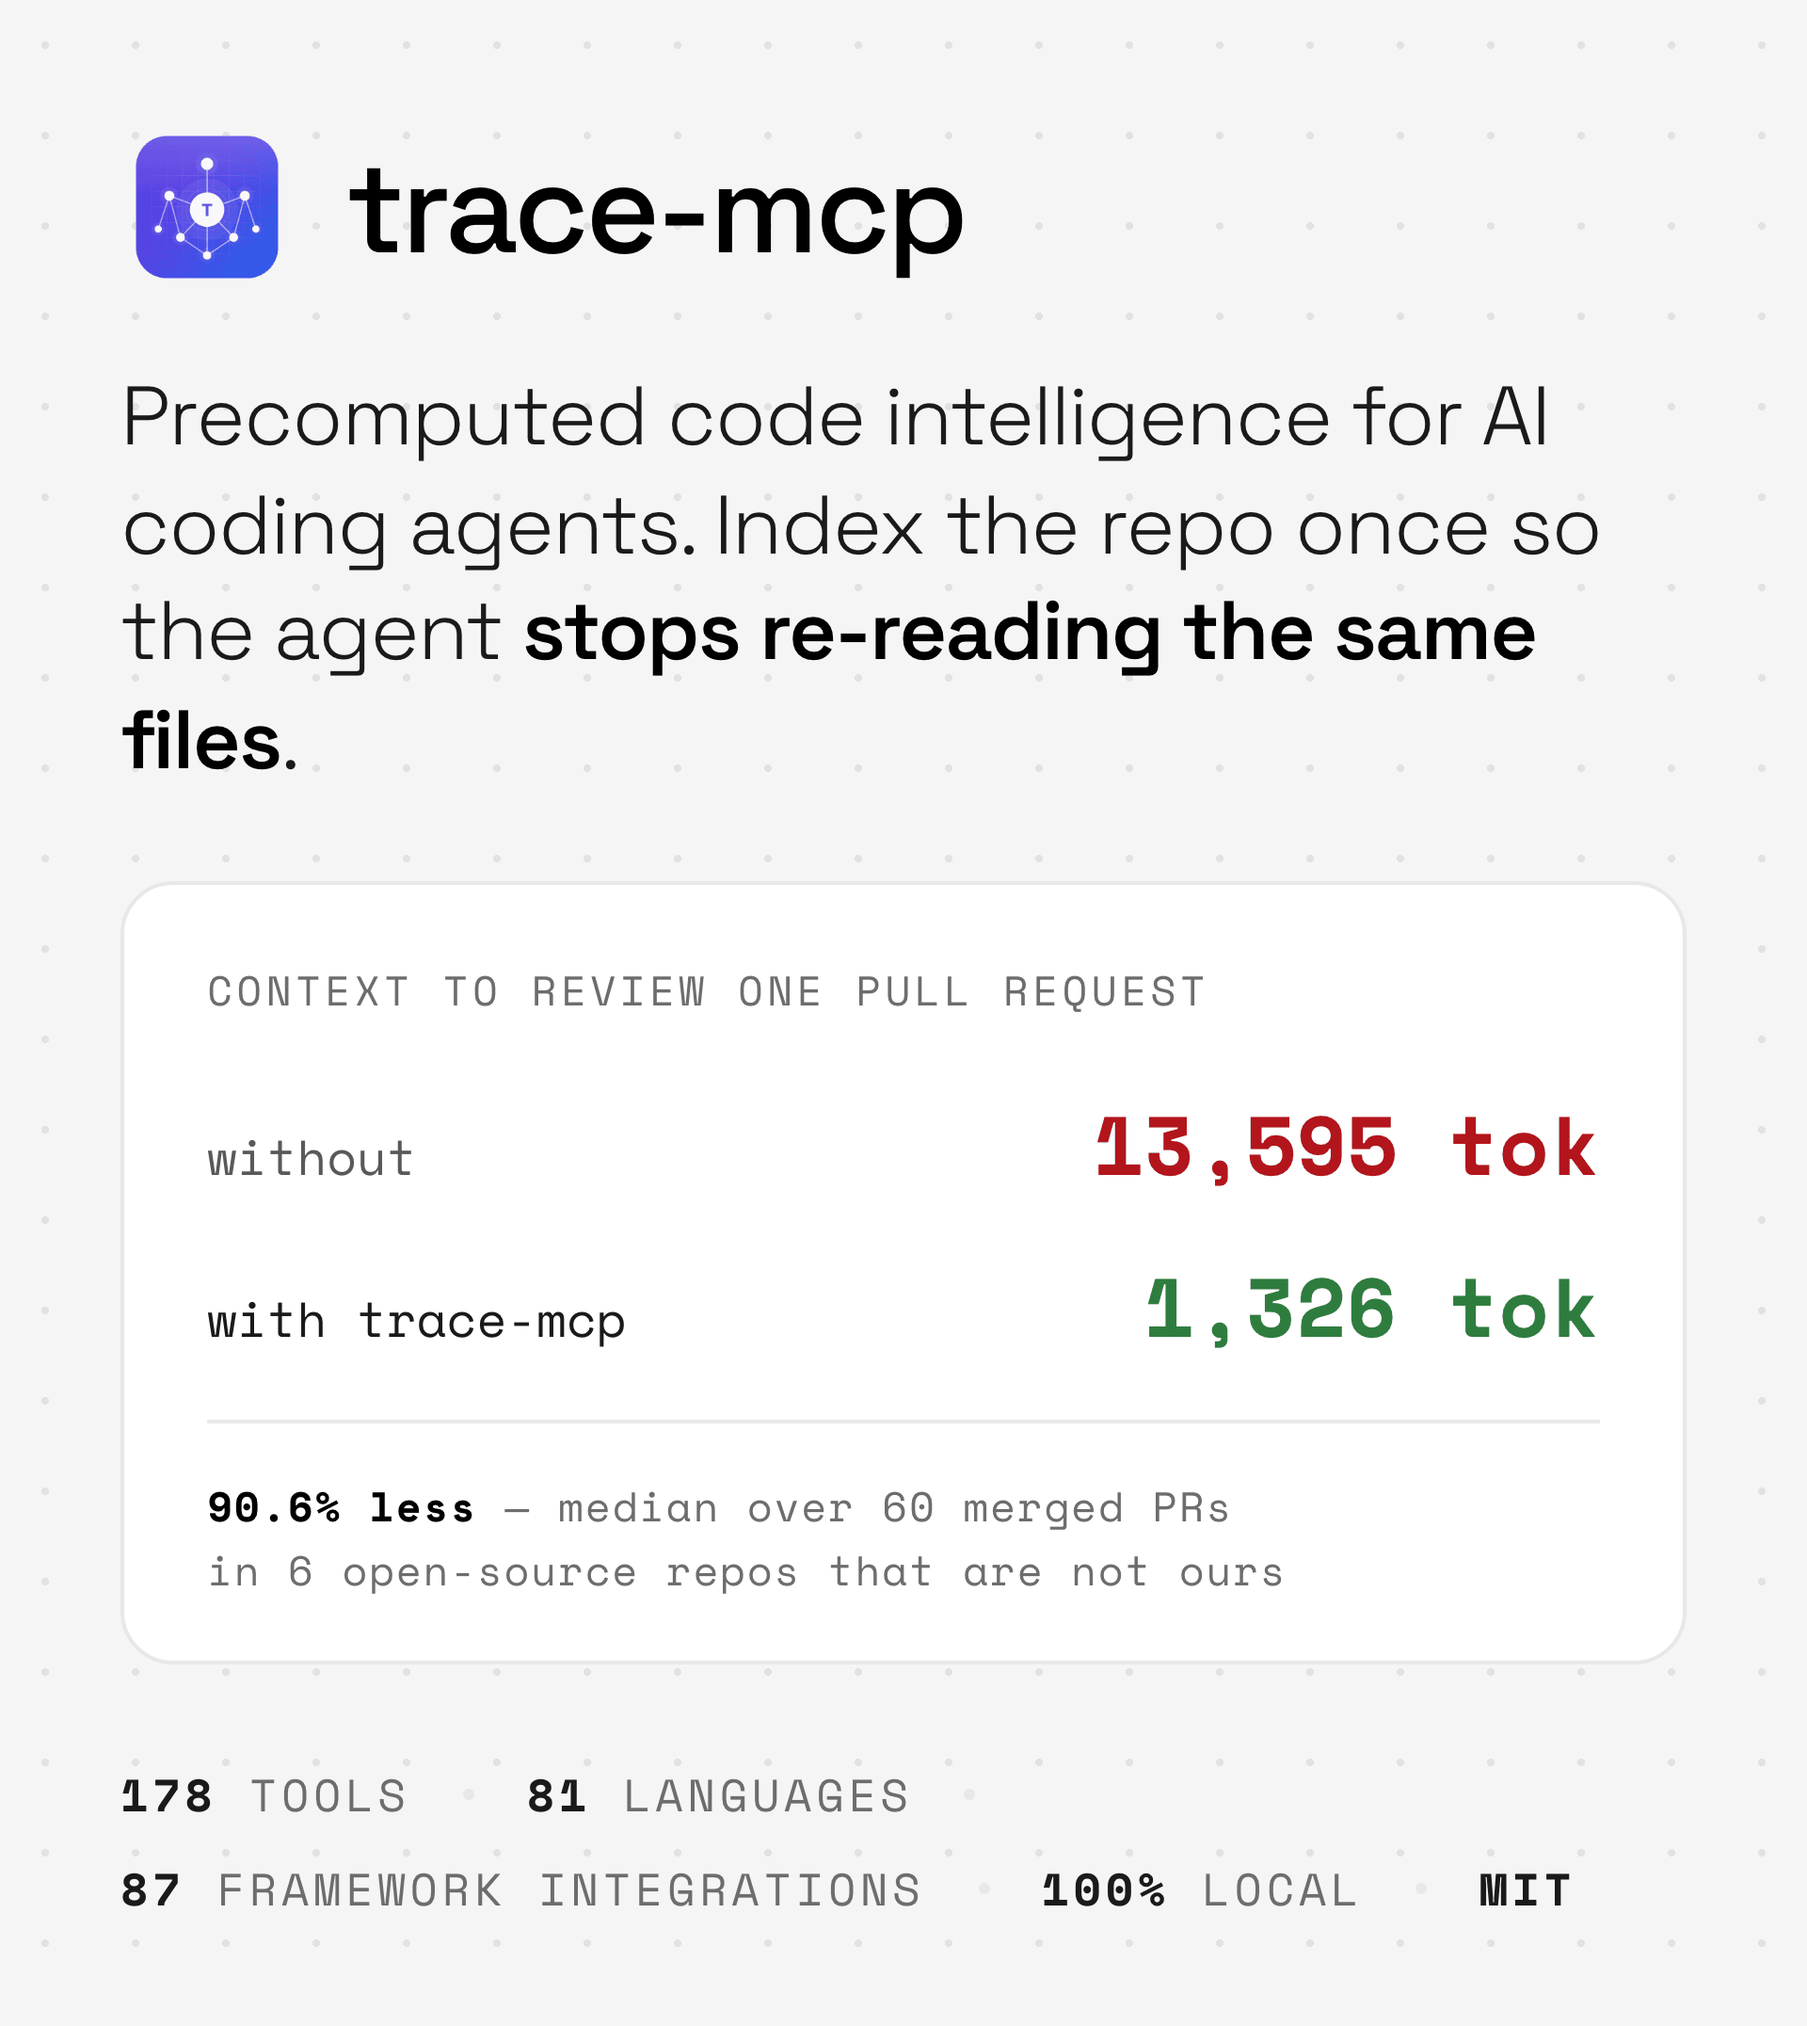
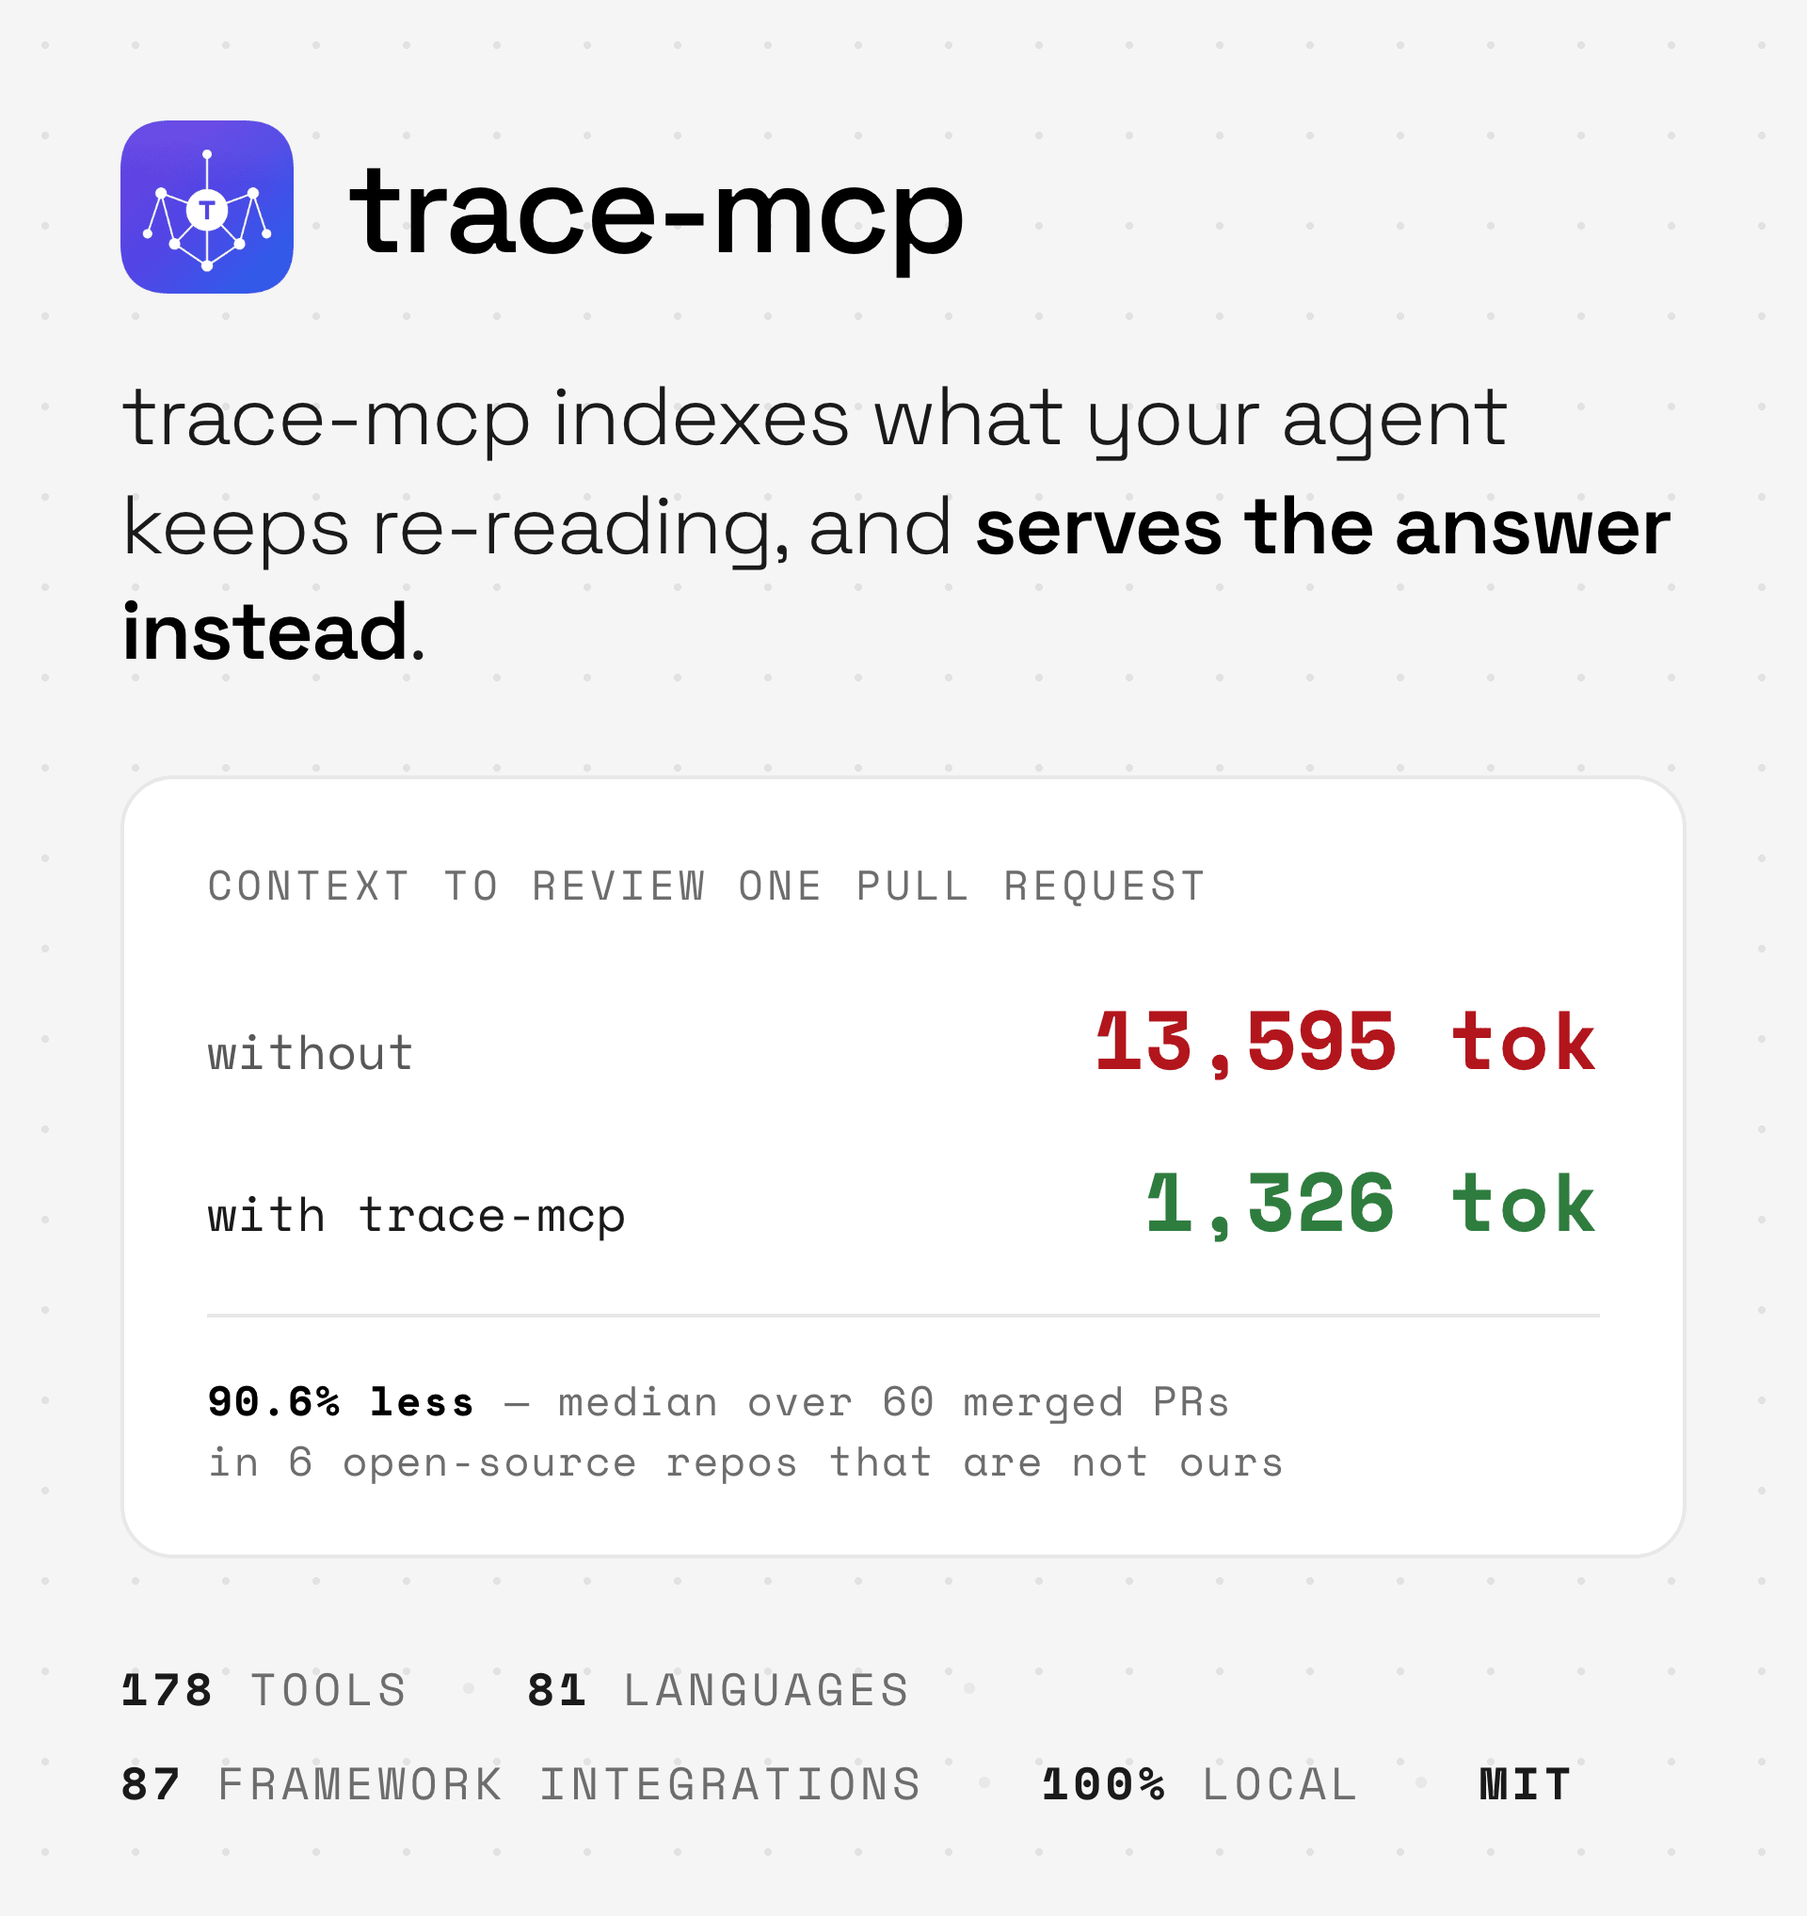
docs: lead with the claim, not the mechanism (TRA-918) (#983)
`ops/positioning.md` (TRA-906) decided the sentence trace-mcp leads with.
This is the copy change it obliges, on the three surfaces a reader actually
sees, all carrying the sentence verbatim — two paraphrases of one claim read
as two claims to anything extracting them:

- `docs/index.html` hero headline, replacing "Precomputed code intelligence
  for AI coding agents". The 90.6% PR-review number moves down one line and
  stays as the headline evidence, now with its own denominator.
- `README.md` first screen, plus the banner PNGs — the tagline lives in
  `scripts/gen-readme-banner.mjs`, so the images are regenerated, never
  retouched. That regeneration also picked up the tool count from
  counts.yml (177 -> 178), so the three prose copies in README follow.
- `docs/_config.yml` `description`, which feeds the meta description on every
  doc page. Cut to 155 characters so the SERP snippet does not truncate it,
  and it carries no hand-typed number.

The honesty boundary travels with the claim rather than as a footnote: we
change configuration the user could change themselves, we do not patch the
client's binary, intercept its traffic, or rewrite its files.

Not touched, deliberately: `server.json`'s `description` (storefront for
registries that can only deliver the tool surface), and the `<title>` /
meta description / Product View heading on the home page, which carry the
measured category term per TRA-950 and `tests/docs/category-term.test.ts`.

Agent: SEO Agent

diff --git a/docs/index.html b/docs/index.html
@@ -608,6 +608,16 @@ updated: 2026-09-04
     /* The payoff half of the subtitle separates on colour, not weight — a second
        weight here would spend a budget slot on what one shade already says. */
     .hero-desc .accent-text { color: var(--text-display); }
+    /* The boundary line reads as the quiet half of the same paragraph: same
+       measure, one step down in size and shade, so it is carried with the claim
+       without competing with it. */
+    .hero-boundary {
+      margin: 14px auto 0;
+      max-width: 660px;
+      font-size: 15px;
+      line-height: 1.5;
+      color: var(--text-secondary);
+    }
     /* The three mono caps rows of the hero — eyebrow above the headline, the
        alternative platforms under the button, the trust line at the fold — are one
        treatment at three opacities, not three components. Only the distance from the
@@ -683,6 +693,7 @@ updated: 2026-09-04
       .hero { padding: 64px 0 40px; }
       .hero-headline { font-size: clamp(30px, 8vw, 44px); max-width: 100%; }
       .hero-desc { margin-top: 20px; font-size: 16px; }
+      .hero-boundary { margin-top: 12px; font-size: 14px; }
       /* Full width, one button: on a phone the download is a target, not a pill
          floating in the middle of a 390px row. */
       .hero-cta { margin-top: 28px; }
@@ -2180,16 +2191,28 @@ updated: 2026-09-04
         <span>MIT</span>
       </p>
 
+      <!-- The position sentence, verbatim from ops/positioning.md and identical on
+           README.md's first screen, the banner PNGs and _config.yml's description:
+           two paraphrases of one claim read as two claims to anything extracting
+           them. Do not narrow it back to the graph — that is what the old headline
+           ("Precomputed code intelligence for AI coding agents") did, and the
+           category term lives on the title and the Product View heading instead
+           (tests/docs/category-term.test.ts). -->
       <h1 class="hero-headline">
-        Precomputed code intelligence for AI coding agents
+        trace-mcp indexes what your agent keeps re-reading, and serves the answer instead.
       </h1>
 
-      <!-- Same verbatim wording as README.md's first screen and as the metrics tile
-           below: two paraphrases of one number read as two claims to anything
-           extracting them. -->
+      <!-- The evidence, not a second claim. Same verbatim number as README.md's
+           first screen and the metrics tile below. -->
       <p class="hero-desc">
-        trace-mcp is an MCP server that indexes your repository once so AI coding agents stop re-reading the same files &mdash;
-        <span class="accent-text">{{ site.data.pr_context_bench.median_savings_pct }}% fewer input tokens to review a pull request.</span>
+        <span class="accent-text">{{ site.data.pr_context_bench.median_savings_pct }}% fewer input tokens to review a pull request</span> &mdash;
+        median over {{ site.data.pr_context_bench.pr_count }} merged pull requests in open-source repos we don't own.
+      </p>
+
+      <!-- The honesty boundary travels with the claim, not as a footnote further down
+           the page (ops/positioning.md &sect; The boundary, carried with the claim). -->
+      <p class="hero-boundary">
+        We change configuration you could change yourself. We do not patch your client's binary, intercept its traffic, or rewrite its files.
       </p>
 
       <div class="hero-cta">

diff --git a/README.md b/README.md
@@ -16,7 +16,7 @@
     <source media="(max-width: 500px) and (prefers-color-scheme:light)" srcset="docs/images/readme/banner-narrow-light.png" />
     <source media="(max-width: 500px)" srcset="docs/images/readme/banner-narrow-dark.png" />
     <source media="(prefers-color-scheme: light)" srcset="docs/images/readme/banner-light.png" />
-    <img src="docs/images/readme/banner-dark.png" width="750" alt="trace-mcp — precomputed code intelligence for AI coding agents. Index the repo once so the agent stops re-reading the same files. Context to review one pull request: 13,595 tokens without trace-mcp, 1,326 with it — 90.6% less, median over 60 merged PRs in 6 open-source repos that are not ours. 177 tools, 81 languages, 87 framework integrations, 100% local, MIT." />
+    <img src="docs/images/readme/banner-dark.png" width="750" alt="trace-mcp indexes what your agent keeps re-reading, and serves the answer instead. Context to review one pull request: 13,595 tokens without trace-mcp, 1,326 with it — 90.6% less, median over 60 merged PRs in 6 open-source repos that are not ours. 178 tools, 81 languages, 87 framework integrations, 100% local, MIT." />
   </picture>
 </p>
 
@@ -41,9 +41,17 @@
 </p>
 
 <!-- The banner carries this sentence as a picture; this line carries it as text,
-     so search and screen readers get the same claim. Keep the two in sync. -->
+     so search and screen readers get the same claim. Keep the two in sync, and keep
+     both verbatim with the hero on trace-mcp.com and with docs/_config.yml —
+     ops/positioning.md holds the sentence. The boundary line under it is not a
+     footnote: it travels with the claim wherever the claim goes. -->
 <p align="center">
-  <strong>trace-mcp</strong> is an MCP server that indexes your repository once so AI coding agents stop re-reading the same files &mdash; <strong>90.6% fewer input tokens</strong> to review a pull request.
+  <strong>trace-mcp indexes what your agent keeps re-reading, and serves the answer instead.</strong><br />
+  <strong>90.6% fewer input tokens</strong> to review a pull request &mdash; median over 60 merged pull requests in open-source repos we don't own.
+</p>
+
+<p align="center">
+  <sub>We change configuration you could change yourself. We do not patch your client's binary, intercept its traffic, or rewrite its files.</sub>
 </p>
 
 <p align="center">
@@ -74,7 +82,7 @@ trace add                  # index the repo you are in
 
 AI agents pay repeatedly for work they have already done. Every turn, the agent re-reads the same files, re-traverses the same dependencies, and re-inflates the context window with structure it discovered five steps ago. That repeated work is most of what a long session costs in tokens and latency.
 
-trace-mcp builds a framework-aware graph of your codebase **once**, then serves it through MCP so the agent reasons from a precomputed structure instead of brute-reading the repo. Ask *"what breaks if I change this model?"* — instead of 80 Grep calls and 190 file reads, the agent calls `get_change_impact` once and gets the blast radius across PHP, Vue, migrations, and DI. 87 framework integrations across 81 languages, 177 tools.
+trace-mcp builds a framework-aware graph of your codebase **once**, then serves it through MCP so the agent reasons from a precomputed structure instead of brute-reading the repo. Ask *"what breaks if I change this model?"* — instead of 80 Grep calls and 190 file reads, the agent calls `get_change_impact` once and gets the blast radius across PHP, Vue, migrations, and DI. 87 framework integrations across 81 languages, 178 tools.
 
 The binding constraint is **recomputation**, not model capability: token bills, latency, and hallucinations all grow with project size instead of with task complexity. trace-mcp closes the recomputation leak. The graph is built once, kept incrementally fresh, and served to every agent that asks — so the same work isn't paid for over and over.
 
@@ -561,7 +569,7 @@ Source files (PHP, TS, Vue, Python, Go, Java, Kotlin, Ruby, HTML, CSS, Blade)
                      │
                      ▼
          MCP server (stdio or HTTP/SSE)
-         177 tools · 10 resources
+         178 tools · 10 resources
 ```
 
 **Incremental by default** — files are content-hashed; unchanged files are skipped on re-index.

diff --git a/ops/positioning.md b/ops/positioning.md
@@ -269,9 +269,9 @@ ordinary issue, not part of this pass. Ordered by how much a reader sees it.
 
 | Surface | Change | Note |
 |---|---|---|
-| `docs/index.html` hero | Headline → the sentence. Boundary line under it. 90.6% stays as the evidence | Keep the `Recomputation → Reuse` eyebrow — it was right all along |
-| `README.md` first screen + banner PNGs | Same sentence, verbatim | Banner is generated: `scripts/gen-readme-banner.mjs`, never retouched by hand |
-| `docs/_config.yml` `description` | Same sentence | Feeds meta description on every page |
+| `docs/index.html` hero | **Done (TRA-918).** Headline → the sentence. Boundary line under it. 90.6% moved to the subhead as evidence | Eyebrow kept — it was right all along. Category term stays on the `<title>` and the Product View heading, not the hero |
+| `README.md` first screen + banner PNGs | **Done (TRA-918).** Same sentence, verbatim, plus the boundary line | Banner regenerated from `scripts/gen-readme-banner.mjs` — the tagline lives in that script, not in the PNG |
+| `docs/_config.yml` `description` | **Done (TRA-918).** Sentence first, then the category term; no hand-typed number | Feeds meta description on every page, so it is cut to 155 characters |
 | Site IA | Two second-level entries, one per door; door 2 has no page today | The real gap; see Doors |
 | `comparisons.md` | Compares graph-to-graph today. The `/vs/` claim changes shape | Coordinate with SEO — TRA-876 just landed benchmark copy on three `/vs/` pages |
 | `server.json` `description` | **Tools only** — do not carry the category sentence | Deliberate; see Doors |
